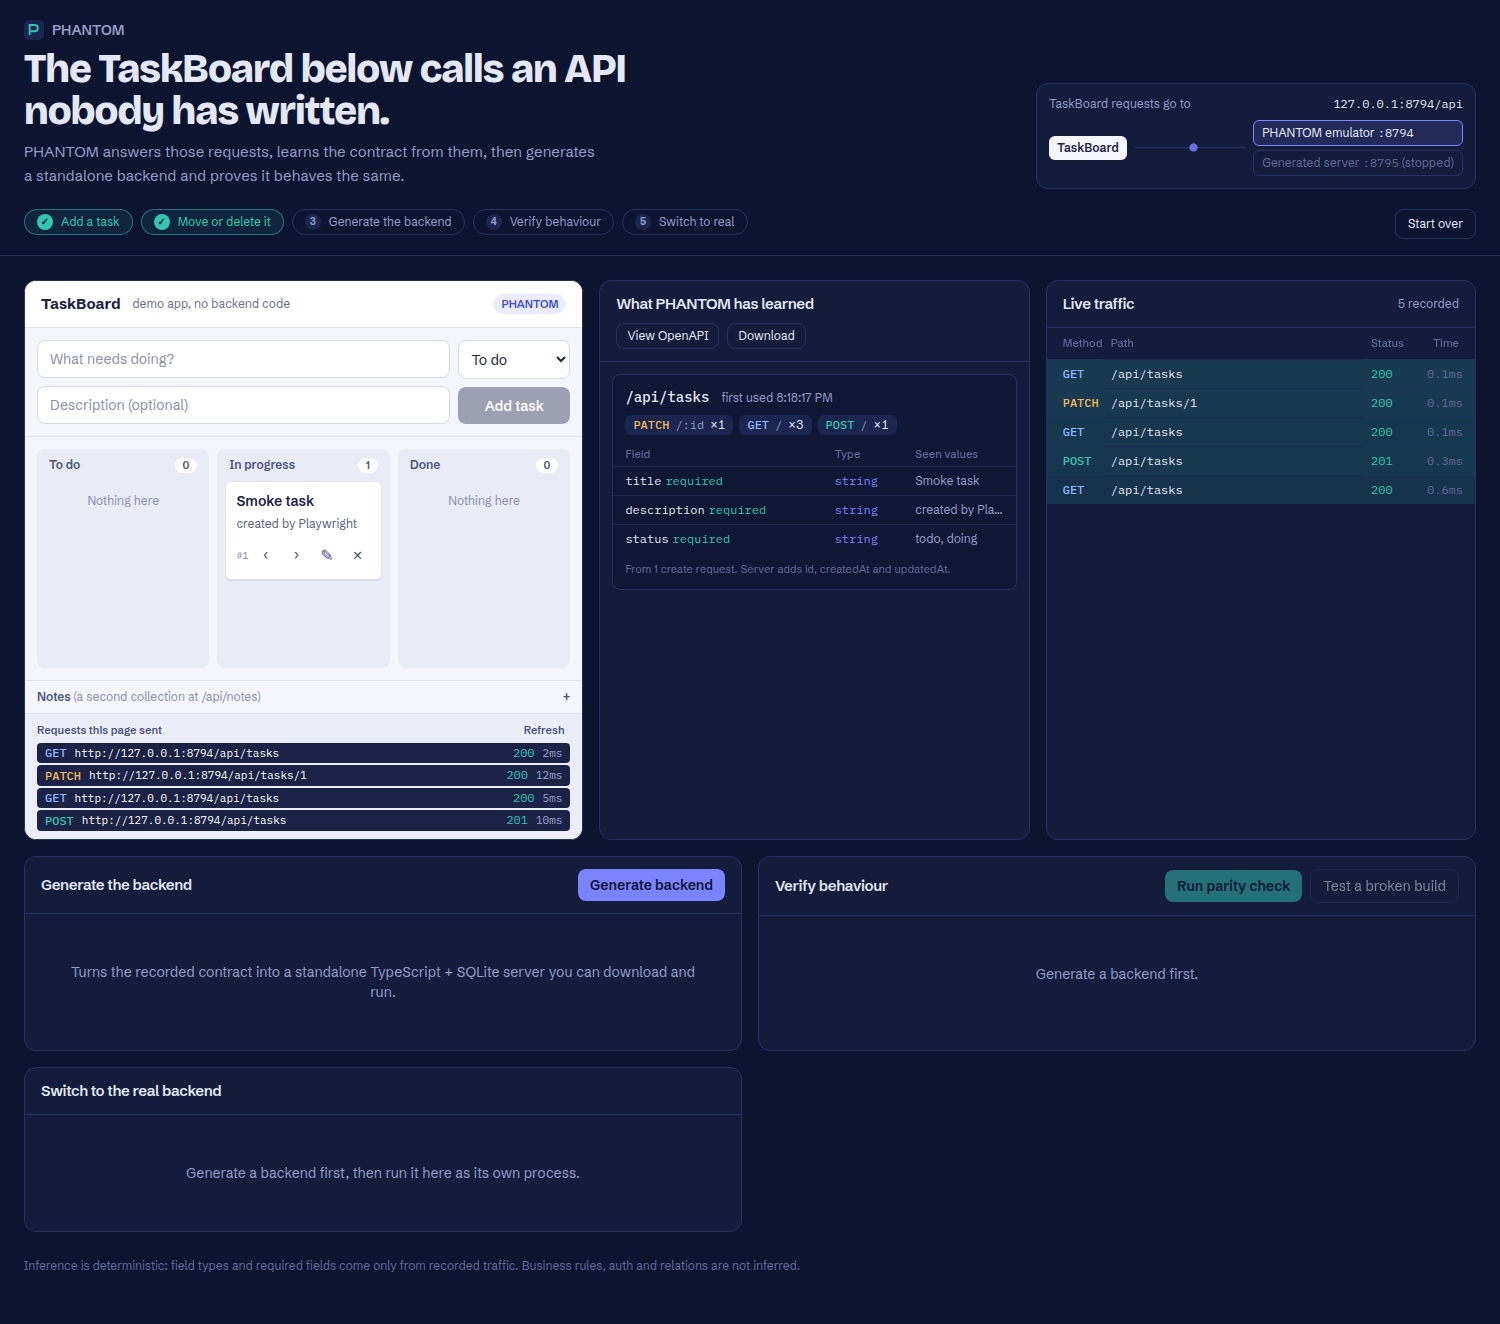
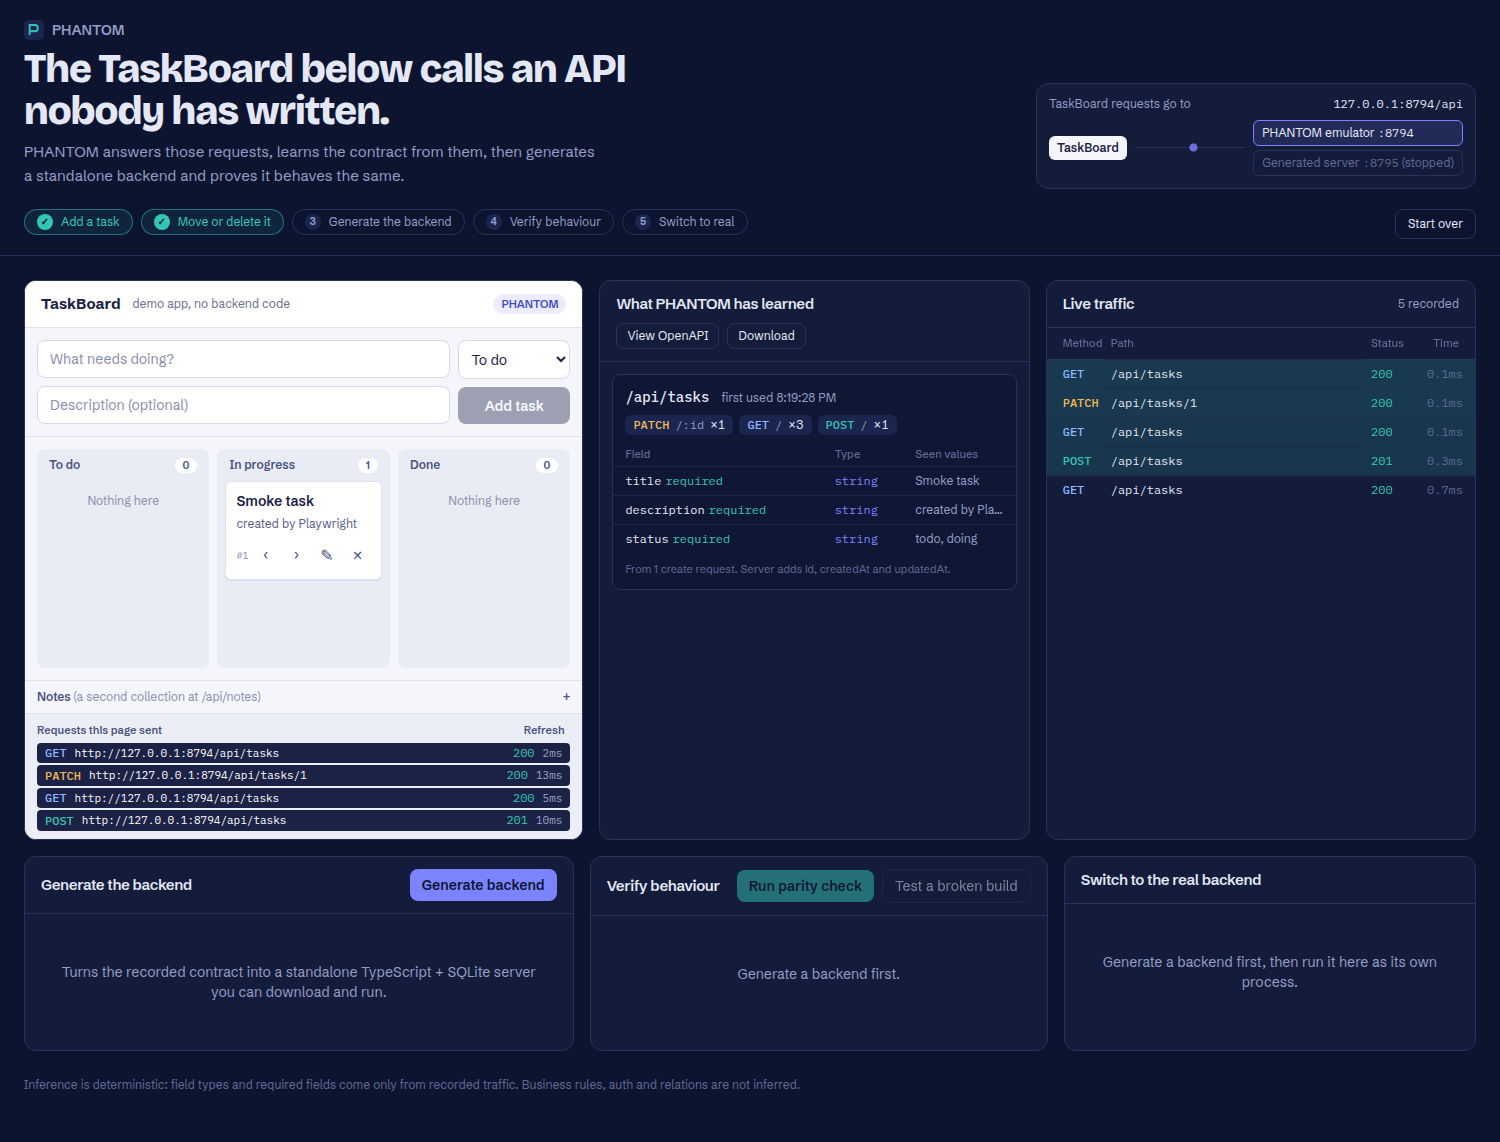
Fix static asset serving after rebuild, initial contract load, layout and arrival highlight

diff --git a/web/src/components/Inspect.tsx b/web/src/components/Inspect.tsx
@@ -5,6 +5,11 @@ import { Empty, Json, Method, Panel, StatusCode } from './ui.tsx';
 
 export function TracePanel({ traces, mode }: { traces: TraceEvent[]; mode: Mode }) {
   const [selected, setSelected] = useState<number | null>(null);
+  // Only rows that arrive after the first render get the arrival highlight.
+  const initialMax = useRef<number | null>(null);
+  if (initialMax.current === null && traces.length > 0) initialMax.current = traces[traces.length - 1].seq;
+  if (initialMax.current !== null && traces.length > 0 && traces[traces.length - 1].seq < initialMax.current) initialMax.current = 0; // after "Start over"
+
   const sel = traces.find((t) => t.seq === selected);
   const rows = [...traces].reverse().slice(0, 200);
   return (
@@ -36,7 +41,7 @@ export function TracePanel({ traces, mode }: { traces: TraceEvent[]; mode: Mode 
                   aria-selected={selected === t.seq}
                   onClick={() => setSelected(selected === t.seq ? null : t.seq)}
                   onKeyDown={(e) => (e.key === 'Enter' || e.key === ' ') && (e.preventDefault(), setSelected(selected === t.seq ? null : t.seq))}
-                  className={`arrive cursor-pointer border-t border-line/60 hover:bg-raised ${selected === t.seq ? 'bg-raised' : ''}`}
+                  className={`${initialMax.current !== null && t.seq > initialMax.current ? 'arrive' : ''} cursor-pointer border-t border-line/60 hover:bg-raised ${selected === t.seq ? 'bg-raised' : ''}`}
                 >
                   <td className="px-4 py-1.5"><Method m={t.method} /></td>
                   <td className="truncate px-2 py-1.5 font-mono text-ink">{t.path}{t.query ? `?${t.query}` : ''}</td>

diff --git a/web/src/App.tsx b/web/src/App.tsx
@@ -47,18 +47,23 @@ export function App() {
 
   const refreshAll = useCallback(async () => {
     try {
-      const [s, t, p] = await Promise.all([control<EngineStatus>('/status'), control<TraceEvent[]>('/traces?limit=500'), control<ParityReport[]>('/parity')]);
+      const [s, t, p, c] = await Promise.all([
+        control<EngineStatus>('/status'),
+        control<TraceEvent[]>('/traces?limit=500'),
+        control<ParityReport[]>('/parity'),
+        control<Contract>('/contract'),
+      ]);
+      setContract(c);
       setStatus(s);
       setTraces(t);
       setBuild(s.latestBuild);
       setReal(s.real);
       setReports(p);
       setEngineDown(false);
-      refreshContract();
     } catch {
       setEngineDown(true);
     }
-  }, [refreshContract]);
+  }, []);
 
   useEffect(() => {
     void refreshAll();
@@ -163,7 +168,7 @@ export function App() {
           <ContractPanel contract={contract} />
           <TracePanel traces={traces} mode={mode} />
         </div>
-        <div className="grid grid-cols-[minmax(0,1fr)] gap-4 lg:grid-cols-2 2xl:grid-cols-[minmax(0,1.2fr)_minmax(0,1fr)_minmax(0,0.9fr)]">
+        <div className="grid grid-cols-[minmax(0,1fr)] gap-4 lg:grid-cols-2 xl:grid-cols-[minmax(0,1.2fr)_minmax(0,1fr)_minmax(0,0.9fr)]">
           <BuildPanel build={build} onBuilt={setBuild} canBuild={(status?.resources.length ?? 0) > 0 || traces.length > 0} />
           <ParityPanel build={build} reports={reports} onReport={(r) => setReports((prev) => [r, ...prev])} />
           <RealPanel build={build} real={real} mode={mode} setMode={setMode} onReal={setReal} />

diff --git a/server/app.ts b/server/app.ts
@@ -364,7 +364,7 @@ export async function createPhantom(options: PhantomOptions = {}): Promise<Phant
 
   /* ------------------------------------------------------------- dashboard -------------------------------------------------------------- */
   if (options.webDist && existsSync(join(options.webDist, 'index.html'))) {
-    await app.register(fastifyStatic, { root: resolve(options.webDist), prefix: '/', wildcard: false });
+    await app.register(fastifyStatic, { root: resolve(options.webDist), prefix: '/' });
     app.setNotFoundHandler((req, reply) => {
       if (req.method === 'GET' && !req.url.startsWith('/__phantom') && !req.url.startsWith('/api')) return reply.sendFile('index.html');
       return reply.code(404).send(errorBody('not_found', 'Route not found'));
